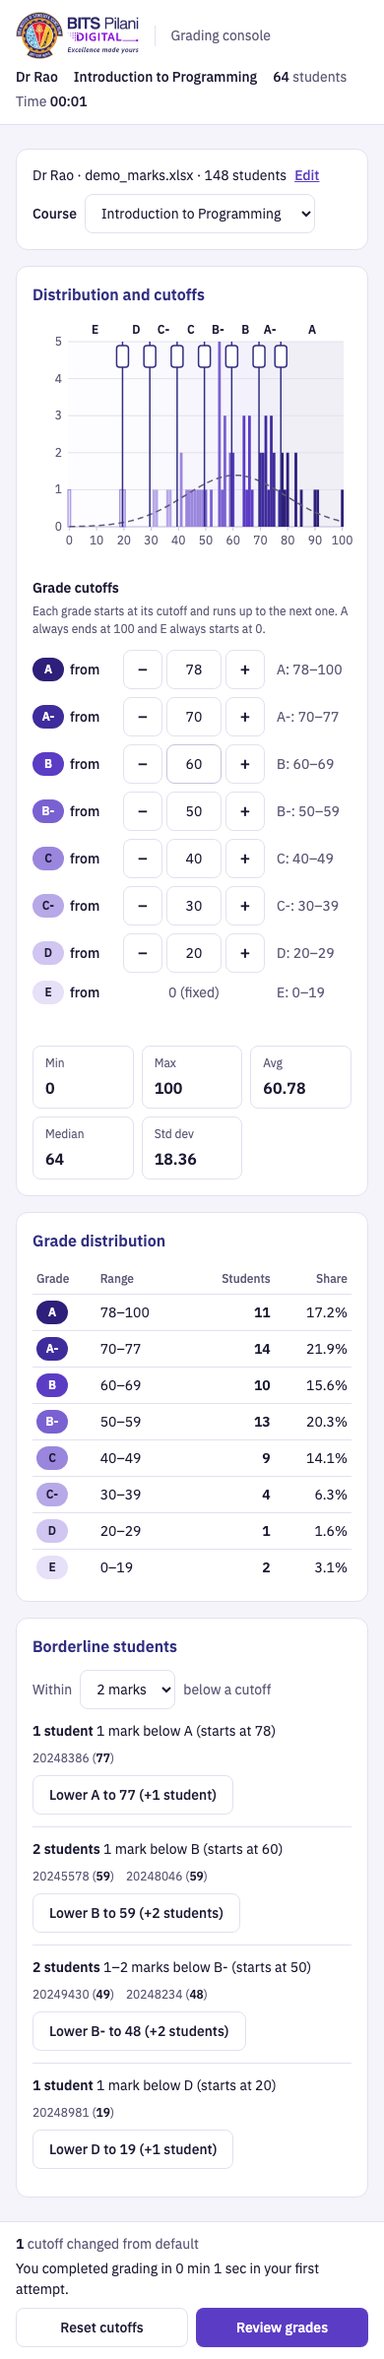
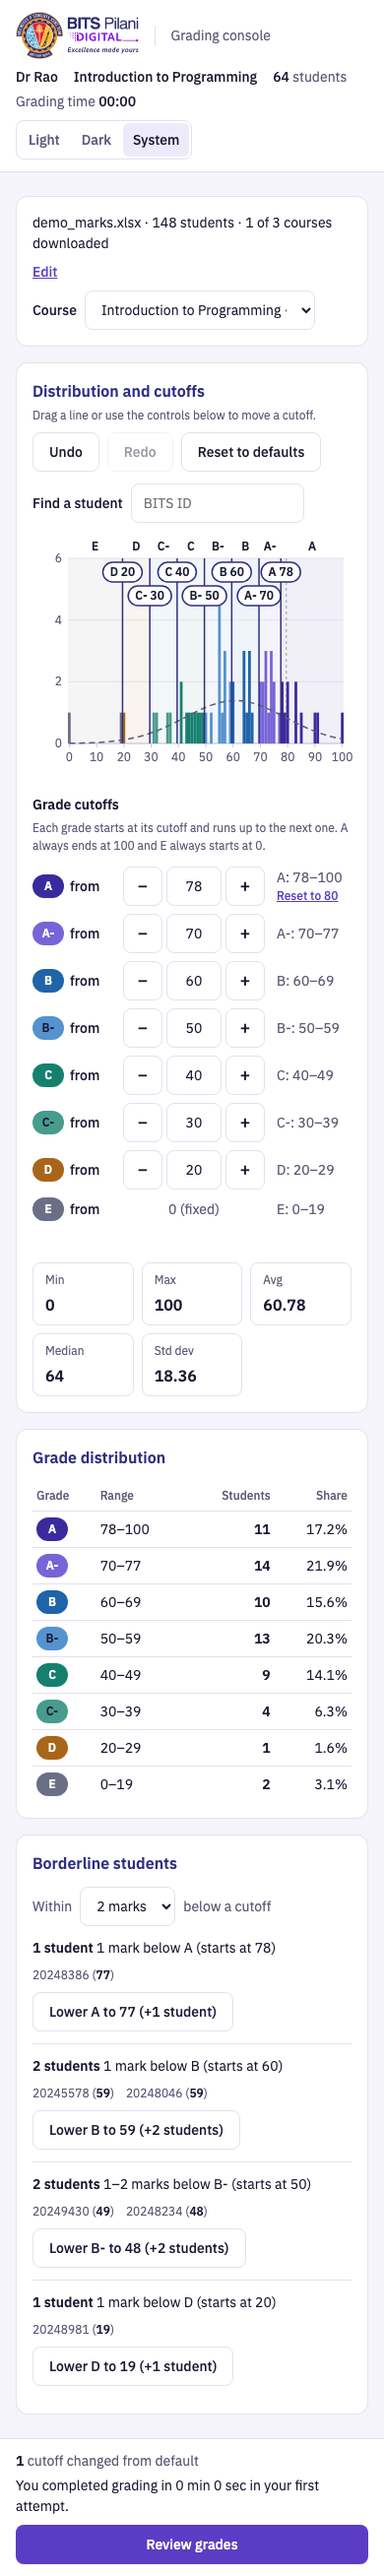
docs: Stage 2B docs (features, storage note, tokens, log) and light/dark screenshots

diff --git a/AI_USAGE.md b/AI_USAGE.md
@@ -88,3 +88,65 @@ borderline action rule, how to handle the lift/pulse tests, and the
 **Human review**
 I reviewed every change in this session (code, tests, fixtures, screenshots and
 documentation) before accepting it.
+
+## 2026-09-29 to 2026-09-30: Stage 2B (fixes from review + E5–E9), Claude Code (Claude Opus 5.5)
+
+I gave Claude Code a review-driven brief:
+- 4 bugs
+- 4 chart follow-ups
+- features E5–E9
+- final checks
+
+It explored the code in plan mode, wrote a plan listing the decisions CLAUDE.md didn't cover, and
+waited for my approval before changing anything.
+
+**What Claude Code did**
+- **Bugs #31–#35, one `fix:` commit each.**
+  - Each bug got a failing test first, run against the previous commit's `index.html` (served from
+    a scratch folder) to prove it reproduced.
+  - #31: cutoffs kept per course.
+  - #32: wider, touch-safe drag handles. A touch test showed CSS `touch-action` alone didn't stop
+    Chromium scrolling mid-drag, so a scoped `touchstart` guard was added and shown to be needed.
+  - #33: context shown once, in the app bar.
+  - #34: y-axis headroom.
+  - #35: reset without `confirm()`, after undo existed.
+- **Chart follow-ups.**
+  - Labelled handle pills that stagger when crowded.
+  - Default-position markers.
+  - The per-letter colour system: the proposed A-, B- and C- failed WCAG checks, so their
+    lightness was tuned and the values recorded in CLAUDE.md.
+- **E5–E9, one `feat:` commit each,** each with its ENHANCEMENTS.md entry and tests:
+  - E5: undo, redo and reset
+  - E6: progress and autosave, never marks or IDs
+  - E7: find a student
+  - E8: dark mode through tokens only
+  - E9: impact list and grading time in the review
+- **Checks.**
+  - Screenshots at 1440 and 390 after every visual change, looked at and fixed. For example, the
+    search results first stacked five lines above the chart and were reflowed inline.
+  - A keyboard-only walkthrough test and touch emulation at 390px.
+  - The Stage 1 ground-truth and golden CSV tests pass unchanged.
+- **Tests:** 94 → 144. Each Stage 1/2 test changed by this work is listed in ENHANCEMENTS.md
+  under "tests rewritten". None was deleted.
+
+**Where the AI got things wrong, and how that was caught**
+- **A factual error in the Stage 1 log.** The first #31 test re-uploaded the identical file and
+  failed, because no `change` event fires for the same file. That showed the log's claim that
+  Playwright always dispatches `change` was wrong, and the row was corrected.
+- **Test bugs, not app bugs.**
+  - A new contrast test composited colours with decimals that the old `contrast()` helper
+    mis-parsed, reporting false failures. Fixed by rounding.
+  - An E9 test assumed A could be set to 70. The app correctly clamped it to 71.
+- **Code slips caught before committing.**
+  - A width fallback that could never apply.
+  - A CSS `isolation` rule that has no effect in SVG.
+  - A lost newline in the stylesheet.
+- **A UI wobble.** A theme-switch click in a test kept failing Playwright's stability check. A
+  real mouse click worked, but the cause was the selected label turning bold and shifting its
+  neighbours, so the weight was made constant.
+- **Process.** One shell command hung (a stray `cat` waiting on input) and was stopped. An
+  attempt to use `git stash` for a before/after check was declined by me and replaced with
+  serving the old file from a scratch folder.
+
+**Human review**
+I approved the plan before implementation. [To complete: my review of the Stage 2B commits.]

diff --git a/README.md b/README.md
@@ -21,9 +21,20 @@ upload area.
   be entered.
 - **Check borderline students:** everyone within 1–3 marks below a cutoff, with
   a one-click "Lower A to 78 (+3 students)".
+- **Undo, redo and reset** next to the chart (also Ctrl/Cmd+Z and
+  Shift+Ctrl/Cmd+Z). A whole drag is one step, each changed cutoff has its own
+  "Reset to 80", and "Reset to defaults" can be undone from an inline notice.
+- **Track progress across courses:** each course shows Not started, In progress
+  or Downloaded, and cutoffs are kept per course. They survive a refresh when you
+  upload the same file again (see "What it stores" below).
+- **Find a student** by BITS ID (from 4 characters, partial and
+  case-insensitive) to see their mark and current grade, with their bar
+  highlighted.
+- **Dark mode** that follows your system, with a Light / Dark / System switch.
 - **Review, then download.** A review dialog summarises the grade counts, the
-  cutoffs changed from the defaults, and anyone still on a boundary before the
-  CSV downloads. The CSV format is identical to Stage 1.
+  cutoffs changed from the defaults, exactly which students' grades differ from
+  the defaults (for example "20247096 · 79 · A- to A"), the grading time, and anyone
+  still on a boundary before the CSV downloads. The CSV format is identical to Stage 1.
 
 ## What it stores on your computer
 To survive a refresh, the app saves each course's **cutoffs and download status**
@@ -34,7 +45,7 @@ and your cutoffs come back, with a "Start over" option. If the browser blocks st
 (for example in some private windows), the app works the same but doesn't remember.
 
 Details: [ENHANCEMENTS.md](ENHANCEMENTS.md) (Stage 2),
-[BUG_FIX_LOG.md](BUG_FIX_LOG.md) (Stage 1, bugs #1–#30),
+[BUG_FIX_LOG.md](BUG_FIX_LOG.md) (bugs #1–#35),
 [AI_USAGE.md](AI_USAGE.md) (how AI tools were used).
 
 ## Run it locally
@@ -57,4 +68,5 @@ npx playwright test         # run the Playwright suite (starts its own server)
 ```
 
 Screenshots for the docs are generated with
-`SHOTS_OUT=docs/screenshots/after npx playwright test -c playwright.screenshots.config.js scripts/screenshots.spec.js`.
+`SHOTS_OUT=docs/screenshots/after npx playwright test -c playwright.screenshots.config.js scripts/screenshots.spec.js`
+(add `SHOTS_THEME=dark` for the dark set).

diff --git a/CLAUDE.md b/CLAUDE.md
@@ -8,7 +8,8 @@ distribution, and exports final grades as CSV. It is NOT a real BITS tool;
 it is a prototype built for this challenge.
 
 The challenge has three stages:
-1. **Debug**: done. See BUG_FIX_LOG.md (#1–#30), tagged `stage-1-complete`.
+1. **Debug**: done. See BUG_FIX_LOG.md (#1–#30), tagged `stage-1-complete`
+   (#31–#35 came from the Stage 2B review).
 2. **Reimagine**: at least 3 meaningful enhancements that solve real
    instructor problems ("more features ≠ better product").
 3. **Deploy**: publicly usable on GitHub Pages.
@@ -49,6 +50,17 @@ technical execution, deployment.
 - Duplicate BITS IDs within a course are rejected; the same ID across courses is fine.
 - The timer, attempt count and completion message are per course. The timer
   stays (it is original functionality) but is visually secondary.
+- **Per-course state:** each course keeps its own cutoffs, undo/redo history and
+  download status for the life of the loaded file (`courseState`); switching
+  course and back restores them, and a new upload clears them. The timer and
+  attempt count still reset on every course switch.
+- **Autosave** stores only cutoffs and download status per course (keyed by file
+  name + a fingerprint of the course list) and the theme, never marks or BITS IDs.
+  Uploading the same file restores it with a "Start over" option. All storage
+  access is wrapped in try/catch.
+- A course is "Downloaded" while its cutoffs match the last download; changing
+  them afterwards makes it "In progress" again.
+- Reset never asks for confirmation; it is one undo step with an inline Undo.
 - **The CSV export format does not change**: same header block, same columns,
   same grade labels, BOM, formula-injection guard and filename pattern.
 - Invalid input is reported inline with specific, row-level messages. Never use `alert()`.

diff --git a/BUG_FIX_LOG.md b/BUG_FIX_LOG.md
@@ -67,7 +67,7 @@ Serve with `npx serve .`, open the printed URL in Chrome, and enter an instructo
 
 | Item | Why it was left alone |
 |---|---|
-| Re-selecting the *same* file (e.g. after fixing it in Excel) may not fire `change`, because the input's value hasn't changed. | Not reproducible in automation (Playwright always dispatches `change`), so not logged as a bug. The usual fix (clearing `file.value`) would also blank the displayed file name, which changes the Stage 1 look. |
+| Re-selecting the *same* file (e.g. after fixing it in Excel) may not fire `change`, because the input's value hasn't changed. | Behaviour of the file input, left as it is. **Correction (Stage 2B):** this row originally said the case can't be reproduced in automation because Playwright always dispatches `change`. That was wrong: while writing `#31b`, setting the identical file twice fired no `change` in Chromium under Playwright. The tests now load a different file in between. With E6, uploading the same file after a refresh restores its saved cutoffs. |
 | Switching course rebuilds the grade cards with the default ranges, discarding custom ranges for the previous course. | Ranges are plausibly meant to be per course. Changing this is a feature decision (Stage 2). **Fixed in Stage 2B as #31.** |
 | Choosing a course without an instructor name uses `alert()`. | The inline-error rule in CLAUDE.md covers invalid uploads. Kept the original behaviour and copy. |
 | The welcome banner keeps the name entered at course selection even if the name is edited later (the CSV uses the current name). | Cosmetic. The export is correct. |
